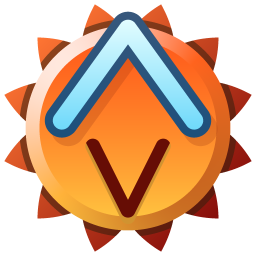
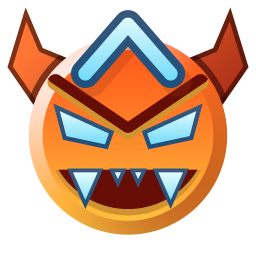
Monster Bounce medal: a monster
The medal is a horned face: crimson horns past the disc, the seams' V for a
brow over two lit eyes, a mouth of fangs, and the Superbounce's chevron up
between the horns. superbounce-medals.py keeps three more drawings (maw,
grin, and launch, the one before) under MONSTER_VARIANTS; --monster picks
one and --variants writes them side by side. The seven other medals come
out pixel-identical.

diff --git a/scripts/superbounce-medals.py b/scripts/superbounce-medals.py
@@ -22,6 +22,11 @@ needs Pillow; writing art.rs needs nothing outside the standard library.
 site/<id>.webp and @2x (64 and 128), hires/<id>-512.png and -256.png (the
 drawing sampled again at 512, and halved: web/art-source/medals/), and
 sheet.png, every bounce medal side by side. `--only` keeps a few ids.
+
+The Monster Bounce has several drawings (`MONSTER_VARIANTS`); STYLE names
+the one in use and `--monster NAME` draws another. `--variants DIR` writes
+sheet-v2.png, all of them beside the other medals (`--before PNG` adds the
+medal as it was).
 """
 
 import argparse
@@ -51,8 +56,8 @@ MEDALS = [
 # strip's colour, the chevrons as rows top first (a count of chevrons in
 # each row: the tier, as a multi-kill disc counts its stars), and for the
 # top tier a spiked rim. `BOUNCED` is a fall through a broken strip.
-# `MONSTER_BOUNCE` is the Superbounce's one chevron launched past the top
-# of its disc, off two seams that fan out in a V from one point.
+# `MONSTER_BOUNCE` is a monster: `monster` names its drawing, one of
+# `MONSTER_VARIANTS` below.
 STYLE = {
     # Slate blue, one pale chevron.
     "SUPERBOUNCE": dict(
@@ -90,21 +95,14 @@ STYLE = {
         top=(0.50, 0.12, 0.12), bottom=(0.86, 0.36, 0.28),
         face=((1.0, 0.94, 0.45), (0.98, 0.58, 0.08)), edge=(0.30, 0.10, 0.0),
         strip=(0.24, 0.04, 0.04), rows=[], fall=True),
-    # Hot orange in a spiked crimson rim; the Superbounce's pale chevron,
-    # taller and out past the disc's top, over a V of seams.
+    # Hot orange, crimson horns and rim, pale marks (the Superbounce's
+    # chevron and its colours); the dark of a mouth or a seam for a strip.
     "MONSTER_BOUNCE": dict(
         top=(1.0, 0.34, 0.10), bottom=(1.0, 0.80, 0.26),
         face=((0.92, 1.0, 1.0), (0.40, 0.84, 0.98)), edge=(0.04, 0.18, 0.36),
-        strip=(0.40, 0.05, 0.02), rows=[], monster=True,
+        strip=(0.40, 0.05, 0.02), rows=[], monster="horned",
         rim=((1.0, 0.46, 0.20), (0.52, 0.05, 0.04))),
 }
-
-# The Monster Bounce's marks: its chevron (centre x, tip y, half width,
-# height, thickness), whose tip stands above the disc on the rim, and the
-# seams (the point they fan from, the half width and height of the fan, a
-# seam's thickness).
-MONSTER_MARK = (SIZE / 2, 2.7, 6.2, 8.6, 3.2)
-MONSTER_SEAMS = (SIZE / 2, 20.3, 3.3, 6.6, 1.4)
 
 
 def mix(a, b, t):
@@ -179,6 +177,8 @@ def mark_face(p, x, y, d, tip, h, th):
 def sample(name, x, y):
     """Straight RGBA (0..1) of the picture at (x, y), in pixels."""
     p = STYLE[name]
+    if "monster" in p:
+        return monster_sample(p, x, y)
     cx = cy = SIZE / 2
     dx, dy = x - cx, y - cy
     r = math.hypot(dx, dy)
@@ -198,15 +198,6 @@ def sample(name, x, y):
             if r < disc_r + 0.6:
                 col = mix(col, (0.2, 0.12, 0.05), 0.55)
     if r > disc_r:
-        if p.get("monster"):
-            # The chevron's tip, past the disc: over the rim, and alone
-            # above it.
-            mx, tip, hw, h, th = MONSTER_MARK
-            d = chevron_dist(x, y, mx, tip, hw, h, th)
-            if d < 0:
-                return (*mark_face(p, x, y, d, tip, h, th), 1.0)
-            if col and chevron_dist(x - 0.6, y - 0.8, mx, tip, hw, h, th) < 0:
-                col = mix(col, mix(p["rim"][1], (0, 0, 0), 0.4), 0.25)
         return (*col, 1.0) if col else (0.0, 0.0, 0.0, 0.0)
     t = clamp((y - (cy - disc_r)) / (2 * disc_r))
     col = mix(p["top"], p["bottom"], t ** 1.3)
@@ -227,16 +218,6 @@ def sample(name, x, y):
             if y < sy + 0.6:
                 col = mix(p["strip"], p["bottom"], 0.6)
         marks = [(cx, cy + 7.6, 5.8, -8.0, 3.0)]
-    elif p.get("monster"):
-        # Two seams from one point low on the disc, fanning up and out: a
-        # V, lit along its upper edge as the strip is along its lower.
-        sx, sy, sw, sh, sth = MONSTER_SEAMS
-        d = chevron_dist(x, y, sx, sy, sw, -sh, sth)
-        if d < 0:
-            col = p["strip"]
-            if chevron_dist(x, y + 0.6, sx, sy, sw, -sh, sth) >= 0:
-                col = mix(p["strip"], p["bottom"], 0.7)
-        marks = [MONSTER_MARK]
     else:
         sy, sh, sw = strip(disc_r)
         if abs(dx) <= sw and sy <= y <= sy + sh:
@@ -253,6 +234,196 @@ def sample(name, x, y):
         if d < 0:
             col = mark_face(p, x, y, d, tip, h, th)
     return (*col, 1.0)
+
+
+# ---------------------------------------------------------------------------
+# The Monster Bounce: a disc as the others', and shapes over and behind it.
+# ---------------------------------------------------------------------------
+
+def s_circle(cx, cy, r):
+    return lambda x, y: math.hypot(x - cx, y - cy) - r
+
+
+def s_seg(ax, ay, bx, by, th):
+    dx, dy = bx - ax, by - ay
+    ll = dx * dx + dy * dy
+
+    def f(x, y):
+        px, py = x - ax, y - ay
+        t = clamp((px * dx + py * dy) / ll)
+        return math.hypot(px - dx * t, py - dy * t) - th / 2
+    return f
+
+
+def s_poly(pts):
+    """Signed distance to a polygon, any winding."""
+    n = len(pts)
+
+    def f(x, y):
+        d = 1e18
+        s = 1.0
+        j = n - 1
+        for i in range(n):
+            xi, yi = pts[i]
+            xj, yj = pts[j]
+            ex, ey = xj - xi, yj - yi
+            wx, wy = x - xi, y - yi
+            t = clamp((wx * ex + wy * ey) / (ex * ex + ey * ey))
+            bx, by = wx - ex * t, wy - ey * t
+            d = min(d, bx * bx + by * by)
+            c1, c2, c3 = y >= yi, y < yj, ex * wy > ey * wx
+            if (c1 and c2 and c3) or (not c1 and not c2 and not c3):
+                s = -s
+            j = i
+        return s * math.sqrt(d)
+    return f
+
+
+def s_union(*fs):
+    return lambda x, y: min(f(x, y) for f in fs)
+
+
+def s_inter(*fs):
+    return lambda x, y: max(f(x, y) for f in fs)
+
+
+def s_chevron(cx, tip, half_w, height, thick):
+    return lambda x, y: chevron_dist(x, y, cx, tip, half_w, height, thick)
+
+
+def s_mirror(f):
+    """A shape and its mirror image across the medal's middle."""
+    return s_union(f, lambda x, y: f(SIZE - x, y))
+
+
+def s_bounds(shape):
+    """(top, bottom) of a shape, to a quarter pixel: its face runs between."""
+    ys = [iy / 4 for iy in range(-8, SIZE * 4 + 9)
+          if any(shape(ix / 4, iy / 4) < 0 for ix in range(-8, SIZE * 4 + 9))]
+    return (ys[0], ys[-1] + 0.25) if ys else (0.0, float(SIZE))
+
+
+def m_mark(shape, ew=0.6, shadow=True):
+    """A pale mark: its shape, its dark edge's width, whether it casts a
+    shadow."""
+    lo, hi = s_bounds(shape)
+    return dict(shape=shape, ew=ew, shadow=shadow, lo=lo, hi=hi)
+
+
+def horn(cy):
+    """A horn up from the disc's upper left, curving in to its point."""
+    return s_poly([(3.6, cy - 2.2), (0.7, cy - 6.4), (2.4, cy - 12.0), (4.0, cy - 8.2), (7.4, cy - 6.8)])
+
+
+def monster_launch():
+    """The Superbounce's chevron out past the top of a rimmed disc, off two
+    seams that fan out in a V from one point."""
+    return dict(cy=12.0, r=9.6, spikes=12,
+                flats=[s_chevron(12, 20.3, 3.3, -6.6, 1.4)],
+                marks=[m_mark(s_chevron(12, 2.7, 6.2, 8.6, 3.2), 0.75)])
+
+
+def monster_maw():
+    """A horned face roaring: small eyes, a round mouth with teeth along
+    its floor, and the chevron bursting up out of it."""
+    cy = 12.7
+    eye = s_poly([(3.7, 6.9), (8.5, 8.3), (8.2, 10.0), (4.7, 9.9)])
+    teeth = s_mirror(s_union(
+        s_poly([(6.5, 17.6), (8.9, 20.2), (9.3, 16.4)]),
+        s_poly([(9.6, 20.7), (11.9, 21.3), (11.1, 17.8)])))
+    return dict(cy=cy, r=9.3, spikes=0, back=[s_mirror(horn(cy))],
+                flats=[s_circle(12, 15.5, 5.9)],
+                marks=[m_mark(s_mirror(eye), 0.4, False), m_mark(teeth, 0.35, False),
+                       m_mark(s_chevron(12, 7.4, 4.2, 6.0, 2.7), 0.7)])
+
+
+def monster_horned():
+    """A horned face: the seams' V for a brow, two lit eyes under it, a
+    mouth of fangs, and the chevron up between the horns, past the disc."""
+    cy = 12.7
+    eye = s_poly([(5.0, 9.7), (10.7, 12.3), (10.1, 14.0), (5.9, 13.1)])
+    mouth = s_inter(s_circle(12, 12.6, 7.6), lambda x, y: 15.9 - y)
+    fangs = s_union(
+        s_poly([(6.3, 15.8), (9.7, 15.8), (8.0, 19.6)]),
+        s_poly([(14.3, 15.8), (17.7, 15.8), (16.0, 19.6)]),
+        s_poly([(10.2, 15.8), (11.9, 15.8), (11.05, 17.6)]),
+        s_poly([(12.1, 15.8), (13.8, 15.8), (12.95, 17.6)]))
+    return dict(cy=cy, r=9.3, spikes=0, back=[s_mirror(horn(cy))],
+                flats=[mouth, s_chevron(12, 12.3, 6.8, -4.6, 1.5)],
+                marks=[m_mark(s_mirror(eye), 0.4, False), m_mark(fangs, 0.35, False),
+                       m_mark(s_chevron(12, 2.3, 4.0, 4.6, 2.7), 0.7)])
+
+
+def monster_grin():
+    """A horned face built from the bounce marks: slanted eyes, and a wide
+    mouth whose teeth are a row of chevrons."""
+    cy = 12.7
+    eye = s_poly([(4.6, 7.4), (10.7, 10.4), (10.1, 12.3), (5.6, 11.4)])
+    mouth = s_inter(s_circle(12, 12.0, 8.0), lambda x, y: 14.2 - y)
+    teeth = s_union(*[s_chevron(cx, 15.4, 1.9, 2.6, 1.5) for cx in (7.2, 12.0, 16.8)])
+    return dict(cy=cy, r=9.3, spikes=0, back=[s_mirror(horn(cy))],
+                flats=[mouth],
+                marks=[m_mark(s_mirror(eye), 0.45, False), m_mark(teeth, 0.4, False)])
+
+
+# The Monster Bounce's drawings by name; STYLE's `monster` picks one.
+MONSTER_VARIANTS = dict(horned=monster_horned, maw=monster_maw, grin=monster_grin, launch=monster_launch)
+_MONSTER = {}
+
+
+def monster_sample(p, x, y):
+    """Straight RGBA (0..1) of the Monster Bounce at (x, y): the disc and
+    its light as `sample` draws them, horns and a spiked rim behind it,
+    flat dark shapes on it (a mouth, seams), the marks' shadows, then the
+    marks, which may stand past the disc."""
+    v = _MONSTER.get(p["monster"])
+    if v is None:
+        v = _MONSTER[p["monster"]] = MONSTER_VARIANTS[p["monster"]]()
+    cx, cy, disc_r = SIZE / 2, v["cy"], v["r"]
+    dx, dy = x - cx, y - cy
+    r = math.hypot(dx, dy)
+    col = None
+    if r > disc_r - 0.5:
+        light = clamp(0.5 - (dx + dy) / (2 * SIZE) * 1.4)
+        behind = mix(p["rim"][1], p["rim"][0], light)
+        dark = mix(p["rim"][1], (0, 0, 0), 0.7)
+        if v["spikes"]:
+            k = v["spikes"]
+            a = (math.atan2(dy, dx) + math.pi / 2) % (2 * math.pi / k) / (2 * math.pi / k)
+            if r <= 12.0 - abs(a - 0.5) * 2 * 3.2:
+                col = behind
+        for shape in v.get("back", ()):
+            d = shape(x, y)
+            if d < 0:
+                col = mix(behind, dark, 0.6) if d > -0.45 else behind
+        # A dark seam where what is behind meets the disc.
+        if col and r < disc_r + 0.6:
+            col = mix(col, dark, 0.55)
+    if r <= disc_r:
+        t = clamp((y - (cy - disc_r)) / (2 * disc_r))
+        col = mix(p["top"], p["bottom"], t ** 1.3)
+        lit = -(dx + dy) / (math.sqrt(2) * max(r, 1e-6))
+        if disc_r - r < 1.3:
+            if lit > 0:
+                col = mix(col, (1.0, 1.0, 1.0), clamp(lit) * 0.85)
+            else:
+                col = mix(col, mix(p["top"], (0, 0, 0), 0.35), clamp(-lit) * 0.6)
+        for shape in v["flats"]:
+            if shape(x, y) < 0:
+                # Lit along its lower edge, as the strip is.
+                col = mix(p["strip"], p["bottom"], 0.7) if shape(x, y + 0.6) >= 0 else p["strip"]
+    if col:
+        shade = mix(p["top"] if r <= disc_r else p["rim"][1], (0, 0, 0), 0.4)
+        for k in v["marks"]:
+            if k["shadow"] and k["shape"](x - 0.6, y - 0.8) < 0:
+                col = mix(col, shade, 0.25)
+    for k in v["marks"]:
+        d = k["shape"](x, y)
+        if d < 0:
+            col = mix(p["face"][0], p["face"][1], clamp((y - k["lo"]) / (k["hi"] - k["lo"])))
+            if d > -k["ew"]:
+                col = mix(col, p["edge"], 0.8)
+    return (*col, 1.0) if col else (0.0, 0.0, 0.0, 0.0)
 
 
 def draw(name):
@@ -343,7 +514,7 @@ HIRES = 512
 HIRES_SS = 3
 
 
-def draw_hires(name):
+def draw_hires(name, HIRES=HIRES):
     """The same drawing sampled at 512 by 512, 3 by 3 samples a pixel, 8
     bits a channel: straight RGBA bytes, as `scripts/live-medals.py --hires`
     draws it. Not the 24-pixel picture enlarged."""
@@ -368,6 +539,47 @@ def draw_hires(name):
             else:
                 out += bytes(4)
     return bytes(out)
+
+
+def variants(out_dir, pics, old):
+    """sheet-v2.png: the bounce medals, the Monster Bounce before (the
+    picture `old`, if given) and each of `MONSTER_VARIANTS`: at their size,
+    8 times, and drawn again at 256."""
+    from PIL import Image, ImageDraw
+    p = STYLE["MONSTER_BOUNCE"]
+    chosen = p["monster"]
+    cells = [(line, to_image(pic), None) for (_, name, line), pic in zip(MEDALS, pics) if name != "MONSTER_BOUNCE"]
+    if old:
+        cells.append(("before", Image.open(old).convert("RGBA"), None))
+    for v in MONSTER_VARIANTS:
+        if v == "launch" and old:
+            continue
+        p["monster"] = v
+        im = to_image([argb4444(q) for q in draw("MONSTER_BOUNCE")])
+        hi = Image.frombytes("RGBA", (256, 256), draw_hires("MONSTER_BOUNCE", 256))
+        cells.append((v + (" (default)" if v == chosen else ""), im, hi))
+    p["monster"] = chosen
+    bg, ink = (28, 30, 38, 255), (235, 235, 240, 255)
+    z, pad = 8, 16
+    cell = SIZE * z + pad
+    big = [c for c in cells if c[2]]
+    w = max(pad + len(cells) * cell, pad + len(big) * (256 + pad))
+    h = pad * 6 + 28 + SIZE + SIZE * z + 256
+    out = Image.new("RGBA", (w, h), bg)
+    dr = ImageDraw.Draw(out)
+    for i, (label, im, _) in enumerate(cells):
+        x = pad + i * cell
+        dr.text((x, pad), label, fill=ink)
+        out.alpha_composite(im, (x, pad * 2 + 14))
+        out.alpha_composite(im.resize((SIZE * z, SIZE * z), Image.NEAREST), (x, pad * 3 + 14 + SIZE))
+    y = pad * 4 + 14 + SIZE + SIZE * z
+    for i, (label, _, hi) in enumerate(big):
+        x = pad + i * (256 + pad)
+        dr.text((x, y), label, fill=ink)
+        out.alpha_composite(hi, (x, y + 14 + pad))
+    path = os.path.join(out_dir, "sheet-v2.png")
+    out.save(path)
+    return path
 
 
 def site_images(im):
@@ -510,13 +722,21 @@ def main():
     ap.add_argument("--disc", default=os.environ.get("H2_DISC"))
     ap.add_argument("--art", help="a directory for the game, big, site and hires files and sheet.png")
     ap.add_argument("--only", help="with --art: the ids to write, comma separated")
+    ap.add_argument("--monster", choices=list(MONSTER_VARIANTS), help="the Monster Bounce's drawing, if not STYLE's")
+    ap.add_argument("--variants", help="a directory for sheet-v2.png: every drawing of the Monster Bounce")
+    ap.add_argument("--before", help="with --variants: a 24 by 24 picture of the medal as it was")
     a = ap.parse_args()
+    if a.monster:
+        STYLE["MONSTER_BOUNCE"]["monster"] = a.monster
     pics = [[argb4444(p) for p in draw(name)] for (_, name, _) in MEDALS]
     os.makedirs(os.path.dirname(a.rs), exist_ok=True)
     write_rs(a.rs, pics)
     print(a.rs)
     if a.preview:
         print(preview(a.preview, pics, a.h2, a.disc))
+    if a.variants:
+        os.makedirs(a.variants, exist_ok=True)
+        print(variants(a.variants, pics, a.before))
     if a.art:
         print(art(a.art, pics, a.only.split(",") if a.only else None))
 
